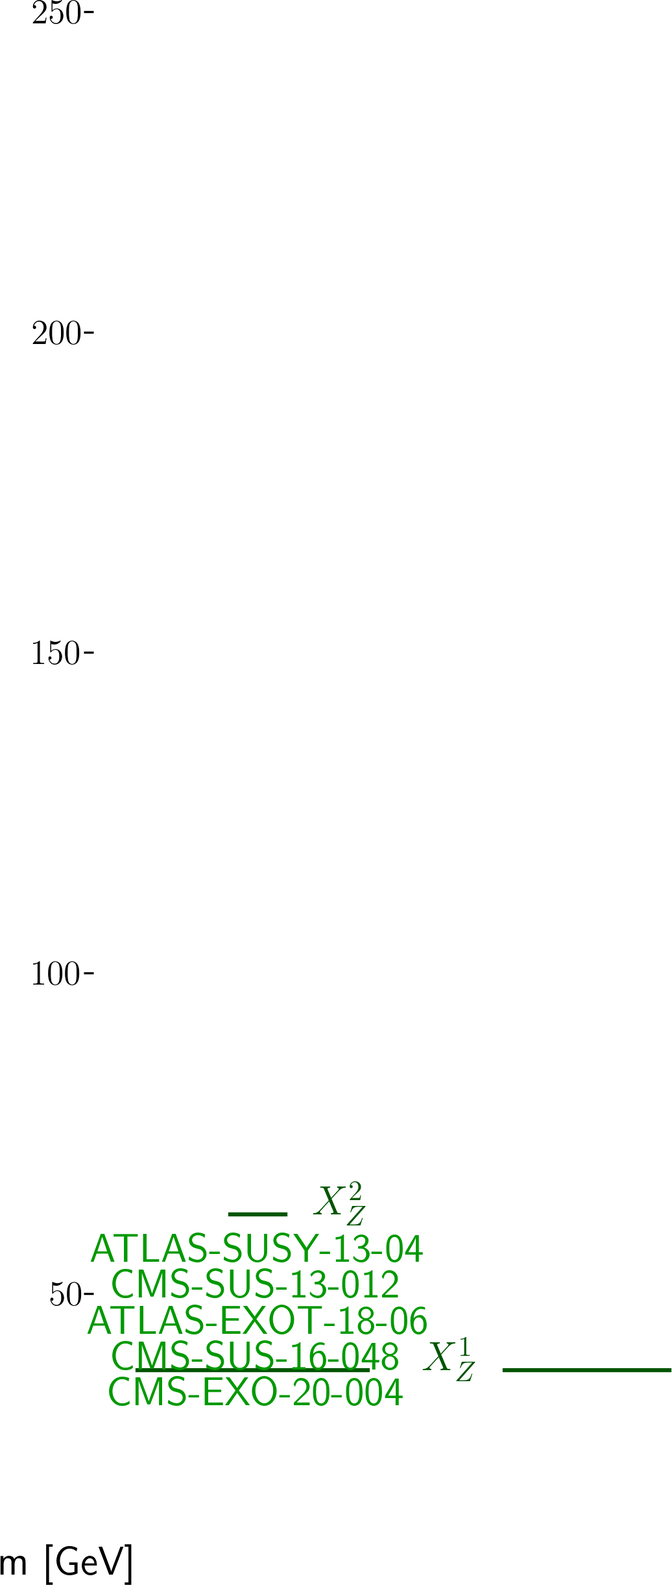
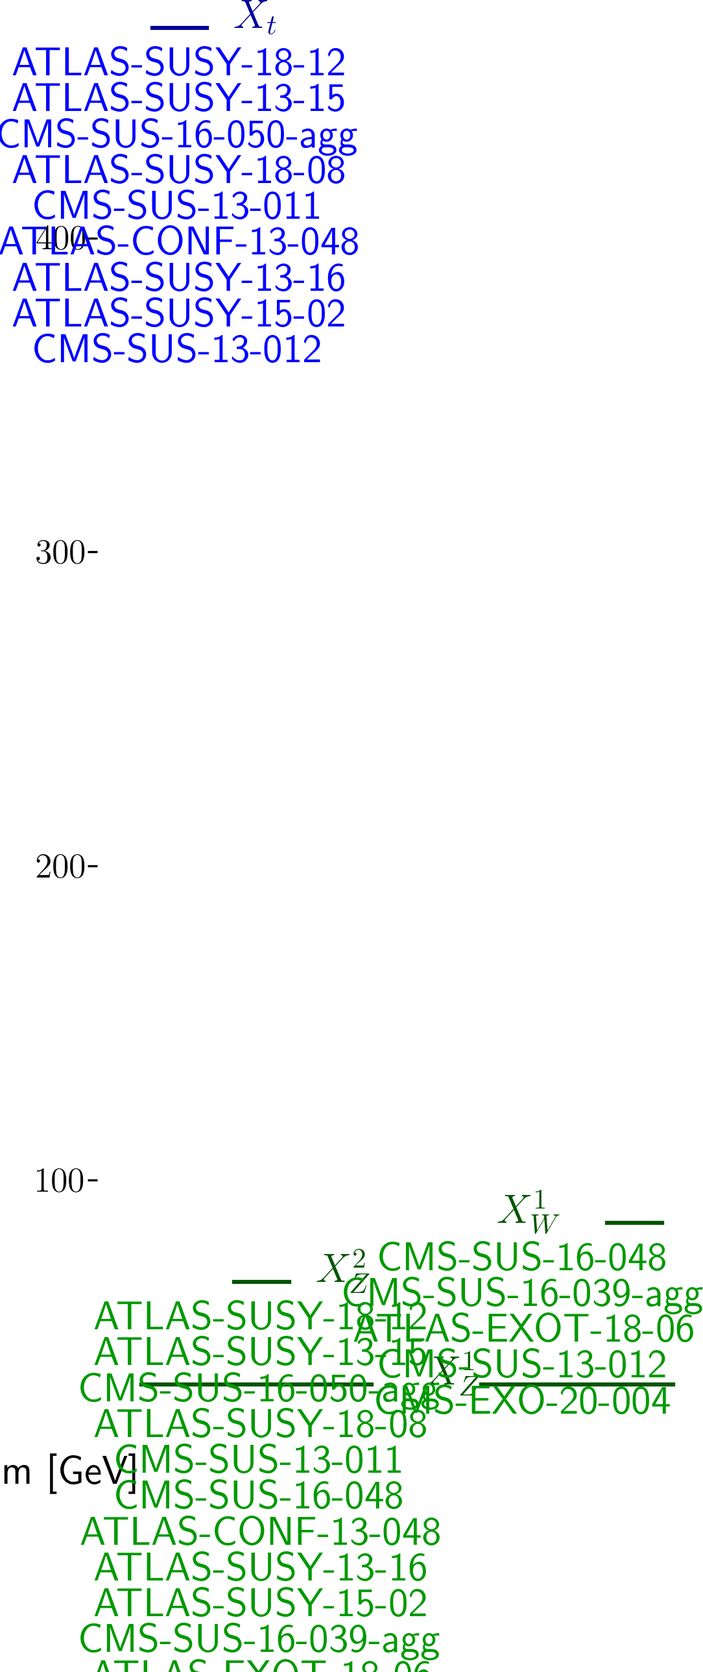
automated update by plotHiscore.py to susy2_310:     K=18.623 TL=27.91 walkerid=0

diff --git a/protomodels/susy2_310/rawnumbers.html b/protomodels/susy2_310/rawnumbers.html
@@ -1,11 +1,83 @@
 <table>
 <tr><th>Analysis Name</th><th>Type</th><th>Dataset</th><th>Topos</th><th>Observed</th><th>Expected</th><th>Approx &sigma;</th><th>Particles</th>
 </tr>
-<tr><td><a href=https://atlas.web.cern.ch/Atlas/GROUPS/PHYSICS/PAPERS/EXOT-2018-06/>ATLAS-EXOT-2018-06</a></td><td>em</td> <td>EM10</td><td>TChiISR, TChiWWISRqq, TChiZISRll, TChiZISRqq</td><td>413</td><td>359.00 +/- 10.00</td><td style="text-align:right">2.4 &sigma;</td><td style="text-align:right">X<sup>1</sup><sub>Z</sub>, X<sup>2</sup><sub>Z</sub></td></tr>
-<tr><td><a href=http://cms-results.web.cern.ch/cms-results/public-results/publications/EXO-20-004/>CMS-EXO-20-004</a></td><td>comb</td> <td>-</td><td>TChiISR, TChiWWISRqq, TChiZISRll, TChiZISRqq</td><td> 2e+02 fb </td><td> 2e+02 fb</td><td style="text-align:right">2.3 &sigma;</td><td style="text-align:right">X<sup>1</sup><sub>Z</sub>, X<sup>2</sup><sub>Z</sub></td></tr>
-<tr><td><a href=https://twiki.cern.ch/twiki/bin/view/CMSPublic/PhysicsResultsSUS13012>CMS-SUS-13-012</a></td><td>em</td> <td>6NJet8_800HT100 ...</td><td>T1bbbb</td><td>35</td><td>28.60 +/- 6.90</td><td style="text-align:right">0.8 &sigma;</td><td style="text-align:right">X<sup>1</sup><sub>Z</sub>, X<sup>2</sup><sub>Z</sub></td></tr>
-<tr><td><a href=http://cms-results.web.cern.ch/cms-results/public-results/publications/SUS-16-048/index.html>CMS-SUS-16-048</a></td><td>comb</td> <td>-</td><td>TChiWZoff</td><td> 1 fb </td><td> 0.9 fb</td><td style="text-align:right">0.8 &sigma;</td><td style="text-align:right">X<sup>1</sup><sub>Z</sub>, X<sup>2</sup><sub>Z</sub></td></tr>
-<tr><td><a href=https://atlas.web.cern.ch/Atlas/GROUPS/PHYSICS/PAPERS/SUSY-2013-04/>ATLAS-SUSY-2013-04</a></td><td>em</td> <td>GtGrid_SR_8ej50 ...</td><td>T1bbbb</td><td>44</td><td>40.00 +/- 10.00</td><td style="text-align:right">0.4 &sigma;</td><td style="text-align:right">X<sup>1</sup><sub>Z</sub>, X<sup>2</sup><sub>Z</sub></td></tr>
+<tr><td><a href=https://atlas.web.cern.ch/Atlas/GROUPS/PHYSICS/PAPERS/EXOT-2018-06/>ATLAS-EXOT-2018-06</a></td><td>em</td> <td>EM10</td><td>TChiISR, TChiWISRll, TChiWWISRqq, TChiZISRll, TChiZISRqq</td><td>413</td><td>359.00 +/- 10.00</td><td style="text-align:right">2.5 &sigma;</td><td style="text-align:right">X<sup>1</sup><sub>W</sub>, X<sup>1</sup><sub>Z</sub>, X<sup>2</sup><sub>Z</sub></td></tr>
+<tr><td><a href=https://atlas.web.cern.ch/Atlas/GROUPS/PHYSICS/PAPERS/SUSY-2015-02/>ATLAS-SUSY-2015-02</a></td><td>em</td> <td>SR1</td><td>T2tt</td><td>12</td><td>5.50 +/- 0.72</td><td style="text-align:right">2.3 &sigma;</td><td style="text-align:right">X<sup>1</sup><sub>Z</sub>, X<sub>t</sub>, X<sup>2</sup><sub>Z</sub></td></tr>
+<tr><td><a href=http://cms-results.web.cern.ch/cms-results/public-results/publications/EXO-20-004/>CMS-EXO-20-004</a></td><td>comb</td> <td>-</td><td>TChiISR, TChiWISRll, TChiWWISRqq, TChiZISRll, TChiZISRqq</td><td> 2e+02 fb </td><td> 2e+02 fb</td><td style="text-align:right">2.3 &sigma;</td><td style="text-align:right">X<sup>1</sup><sub>W</sub>, X<sup>1</sup><sub>Z</sub>, X<sup>2</sup><sub>Z</sub></td></tr>
+<tr><td><a href=https://atlas.web.cern.ch/Atlas/GROUPS/PHYSICS/PAPERS/SUSY-2018-12/>ATLAS-SUSY-2018-12</a></td><td>em</td> <td>SRBTT</td><td>T2tt</td><td>67</td><td>46.00 +/- 7.00</td><td style="text-align:right">2.0 &sigma;</td><td style="text-align:right">X<sup>1</sup><sub>Z</sub>, X<sub>t</sub>, X<sup>2</sup><sub>Z</sub></td></tr>
+<tr><td><a href=http://cms-results.web.cern.ch/cms-results/public-results/publications/SUS-16-039/index.html>CMS-SUS-16-039-agg</a></td><td>comb</td> <td>-</td><td>TChiWZoff</td><td> 1 fb </td><td> 0.6 fb</td><td style="text-align:right">1.8 &sigma;</td><td style="text-align:right">X<sup>1</sup><sub>W</sub>, X<sup>1</sup><sub>Z</sub>, X<sup>2</sup><sub>Z</sub></td></tr>
+<tr><td><a href=http://cms-results.web.cern.ch/cms-results/public-results/publications/SUS-16-048/index.html>CMS-SUS-16-048</a></td><td>comb</td> <td>-</td><td>TChiWZoff</td><td> 2 fb </td><td> 1 fb</td><td style="text-align:right">1.6 &sigma;</td><td style="text-align:right">X<sup>1</sup><sub>W</sub>, X<sup>1</sup><sub>Z</sub>, X<sup>2</sup><sub>Z</sub></td></tr>
+<tr><td><a href=https://atlas.web.cern.ch/Atlas/GROUPS/PHYSICS/PAPERS/SUSY-2018-08/>ATLAS-SUSY-2018-08</a></td><td>em</td> <td>SRSF140</td><td>T2tt</td><td>9</td><td>5.10 +/- 0.90</td><td style="text-align:right">1.5 &sigma;</td><td style="text-align:right">X<sup>1</sup><sub>Z</sub>, X<sub>t</sub>, X<sup>2</sup><sub>Z</sub></td></tr>
+<tr><td><a href=https://atlas.web.cern.ch/Atlas/GROUPS/PHYSICS/PAPERS/SUSY-2013-16/>ATLAS-SUSY-2013-16</a></td><td>em</td> <td>SRA4</td><td>T2tt</td><td>4</td><td>2.40 +/- 0.70</td><td style="text-align:right">0.9 &sigma;</td><td style="text-align:right">X<sup>1</sup><sub>Z</sub>, X<sub>t</sub>, X<sup>2</sup><sub>Z</sub></td></tr>
+<tr><td><a href=https://atlas.web.cern.ch/Atlas/GROUPS/PHYSICS/PAPERS/SUSY-2013-15/>ATLAS-SUSY-2013-15</a></td><td>em</td> <td>tNboost</td><td>T2tt</td><td>5</td><td>3.30 +/- 0.70</td><td style="text-align:right">0.9 &sigma;</td><td style="text-align:right">X<sup>1</sup><sub>Z</sub>, X<sub>t</sub>, X<sup>2</sup><sub>Z</sub></td></tr>
+<tr><td><a href=https://twiki.cern.ch/twiki/bin/view/CMSPublic/PhysicsResultsSUS13012>CMS-SUS-13-012</a></td><td>em</td> <td>6NJet8_800HT100 ...</td><td>T1bbbb, T2tt, T6bbWWoff</td><td>35</td><td>28.60 +/- 6.90</td><td style="text-align:right">0.7 &sigma;</td><td style="text-align:right">X<sup>1</sup><sub>W</sub>, X<sup>1</sup><sub>Z</sub>, X<sub>t</sub>, X<sup>2</sup><sub>Z</sub></td></tr>
+<tr><td><a href=http://cms-results.web.cern.ch/cms-results/public-results/publications/SUS-16-050/index.html>CMS-SUS-16-050-agg</a></td><td>comb</td> <td>-</td><td>T2tt</td><td> 2 fb </td><td> 2 fb</td><td style="text-align:right">0.1 &sigma;</td><td style="text-align:right">X<sup>1</sup><sub>Z</sub>, X<sub>t</sub>, X<sup>2</sup><sub>Z</sub></td></tr>
+<tr><td><a href=https://twiki.cern.ch/twiki/bin/view/CMSPublic/PhysicsResultsSUS13011>CMS-SUS-13-011</a></td><td>em</td> <td>LM150</td><td>T2tt</td><td>227</td><td>251.00 +/- 50.00</td><td style="text-align:right">-0.5 &sigma;</td><td style="text-align:right">X<sup>1</sup><sub>Z</sub>, X<sub>t</sub>, X<sup>2</sup><sub>Z</sub></td></tr>
+<tr><td><a href=https://atlas.web.cern.ch/Atlas/GROUPS/PHYSICS/CONFNOTES/ATLAS-CONF-2013-048/>ATLAS-CONF-2013-048</a></td><td>em</td> <td>SR M90</td><td>T2tt</td><td>260</td><td>300.00 +/- 40.00</td><td style="text-align:right">-0.9 &sigma;</td><td style="text-align:right">X<sup>1</sup><sub>Z</sub>, X<sub>t</sub>, X<sup>2</sup><sub>Z</sub></td></tr>
 </table>
 <table style='color:grey'>
-<tr><th>Not in Best Combo</th><th>Type</th><th>Dataset</th><th>Topos</th><th>Observed</th><th>Expected</th><th>Approx &sigma;</th><th>Particles</th></table>
+<tr><th>Not in Best Combo</th><th>Type</th><th>Dataset</th><th>Topos</th><th>Observed</th><th>Expected</th><th>Approx &sigma;</th><th>Particles</th><tr><td><a href=https://atlas.web.cern.ch/Atlas/GROUPS/PHYSICS/CONFNOTES/ATLAS-CONF-2013-047/>ATLAS-CONF-2013-047</a></td><td>em</td> <td>E Loose</td><td>T2tt</td><td>166</td><td>113.00 +/- 21.00</td><td style="text-align:right">2.2 &sigma;</td><td style="text-align:right">X<sup>1</sup><sub>Z</sub>, X<sub>t</sub>, X<sup>2</sup><sub>Z</sub></td></tr>
+<tr><td><a href=https://atlas.web.cern.ch/Atlas/GROUPS/PHYSICS/PAPERS/SUSY-2016-16/>ATLAS-SUSY-2016-16</a></td><td>em</td> <td>tN_med</td><td>T2tt</td><td>50</td><td>36.30 +/- 6.60</td><td style="text-align:right">1.5 &sigma;</td><td style="text-align:right">X<sup>1</sup><sub>Z</sub>, X<sub>t</sub>, X<sup>2</sup><sub>Z</sub></td></tr>
+<tr><td><a href=https://atlas.web.cern.ch/Atlas/GROUPS/PHYSICS/CONFNOTES/ATLAS-CONF-2013-047/>ATLAS-CONF-2013-047</a></td><td>em</td> <td>A Loose</td><td>T2tt</td><td>5333</td><td>4700.00 +/- 500.00</td><td style="text-align:right">1.3 &sigma;</td><td style="text-align:right">X<sup>1</sup><sub>Z</sub>, X<sub>t</sub>, X<sup>2</sup><sub>Z</sub></td></tr>
+<tr><td><a href=https://atlas.web.cern.ch/Atlas/GROUPS/PHYSICS/PAPERS/SUSY-2013-04/>ATLAS-SUSY-2013-04</a></td><td>em</td> <td>GtGrid_SR_10ij5 ...</td><td>T2tt</td><td>3</td><td>1.37 +/- 0.35</td><td style="text-align:right">1.2 &sigma;</td><td style="text-align:right">X<sup>1</sup><sub>Z</sub>, X<sub>t</sub>, X<sup>2</sup><sub>Z</sub></td></tr>
+<tr><td><a href=https://atlas.web.cern.ch/Atlas/GROUPS/PHYSICS/CONFNOTES/ATLAS-CONF-2013-062/>ATLAS-CONF-2013-062</a></td><td>em</td> <td>incHL3j_m</td><td>T2tt</td><td>5</td><td>2.70 +/- 0.90</td><td style="text-align:right">1.2 &sigma;</td><td style="text-align:right">X<sup>1</sup><sub>Z</sub>, X<sub>t</sub>, X<sup>2</sup><sub>Z</sub></td></tr>
+<tr><td><a href=http://cms-results.web.cern.ch/cms-results/public-results/publications/SUS-16-033/index.html>CMS-SUS-16-033</a></td><td>em</td> <td>SR2_Njet3_Nb0_H ...</td><td>T2tt</td><td>71</td><td>55.20 +/- 11.50</td><td style="text-align:right">1.1 &sigma;</td><td style="text-align:right">X<sup>1</sup><sub>Z</sub>, X<sub>t</sub>, X<sup>2</sup><sub>Z</sub></td></tr>
+<tr><td><a href=https://atlas.web.cern.ch/Atlas/GROUPS/PHYSICS/CONFNOTES/ATLAS-CONF-2013-047/>ATLAS-CONF-2013-047</a></td><td>em</td> <td>E Medium</td><td>T2tt</td><td>41</td><td>30.00 +/- 8.00</td><td style="text-align:right">1.1 &sigma;</td><td style="text-align:right">X<sup>1</sup><sub>Z</sub>, X<sub>t</sub>, X<sup>2</sup><sub>Z</sub></td></tr>
+<tr><td><a href=https://atlas.web.cern.ch/Atlas/GROUPS/PHYSICS/CONFNOTES/ATLAS-CONF-2013-061/>ATLAS-CONF-2013-061</a></td><td>em</td> <td>SR-0l-4j-B</td><td>T2tt</td><td>3</td><td>1.30 +/- 1.00</td><td style="text-align:right">1.0 &sigma;</td><td style="text-align:right">X<sup>1</sup><sub>Z</sub>, X<sub>t</sub>, X<sup>2</sup><sub>Z</sub></td></tr>
+<tr><td><a href=https://atlas.web.cern.ch/Atlas/GROUPS/PHYSICS/PAPERS/SUSY-2013-04/>ATLAS-SUSY-2013-04</a></td><td>em</td> <td>GtGrid_SR_8ij80 ...</td><td>T2tt</td><td>2</td><td>0.90 +/- 0.60</td><td style="text-align:right">0.9 &sigma;</td><td style="text-align:right">X<sup>1</sup><sub>Z</sub>, X<sub>t</sub>, X<sup>2</sup><sub>Z</sub></td></tr>
+<tr><td><a href=https://atlas.web.cern.ch/Atlas/GROUPS/PHYSICS/CONFNOTES/ATLAS-CONF-2013-062/>ATLAS-CONF-2013-062</a></td><td>em</td> <td>SL1b_high</td><td>T2tt</td><td>6</td><td>4.00 +/- 1.10</td><td style="text-align:right">0.9 &sigma;</td><td style="text-align:right">X<sup>1</sup><sub>Z</sub>, X<sub>t</sub>, X<sup>2</sup><sub>Z</sub></td></tr>
+<tr><td><a href=https://atlas.web.cern.ch/Atlas/GROUPS/PHYSICS/PAPERS/SUSY-2013-04/>ATLAS-SUSY-2013-04</a></td><td>em</td> <td>GtGrid_SR_9ej50 ...</td><td>T2tt</td><td>5</td><td>3.30 +/- 0.70</td><td style="text-align:right">0.9 &sigma;</td><td style="text-align:right">X<sup>1</sup><sub>Z</sub>, X<sub>t</sub>, X<sup>2</sup><sub>Z</sub></td></tr>
+<tr><td><a href=https://atlas.web.cern.ch/Atlas/GROUPS/PHYSICS/CONFNOTES/ATLAS-CONF-2013-047/>ATLAS-CONF-2013-047</a></td><td>em</td> <td>E Tight</td><td>T2tt</td><td>5</td><td>2.90 +/- 1.80</td><td style="text-align:right">0.8 &sigma;</td><td style="text-align:right">X<sup>1</sup><sub>Z</sub>, X<sub>t</sub>, X<sup>2</sup><sub>Z</sub></td></tr>
+<tr><td><a href=https://twiki.cern.ch/twiki/bin/view/CMSPublic/PhysicsResultsSUS13015>CMS-PAS-SUS-13-015</a></td><td>em</td> <td>pTmiss350_Nb2</td><td>T2tt</td><td>15</td><td>8.60 +/- 7.10</td><td style="text-align:right">0.8 &sigma;</td><td style="text-align:right">X<sup>1</sup><sub>Z</sub>, X<sub>t</sub>, X<sup>2</sup><sub>Z</sub></td></tr>
+<tr><td><a href=https://atlas.web.cern.ch/Atlas/GROUPS/PHYSICS/CONFNOTES/ATLAS-CONF-2013-054/>ATLAS-CONF-2013-054</a></td><td>em</td> <td>8j50 flavor 0 b ...</td><td>T2tt</td><td>40</td><td>35.00 +/- 4.00</td><td style="text-align:right">0.7 &sigma;</td><td style="text-align:right">X<sup>1</sup><sub>Z</sub>, X<sub>t</sub>, X<sup>2</sup><sub>Z</sub></td></tr>
+<tr><td><a href=https://atlas.web.cern.ch/Atlas/GROUPS/PHYSICS/PAPERS/SUSY-2013-04/>ATLAS-SUSY-2013-04</a></td><td>em</td> <td>GtGrid_SR_8ej50 ...</td><td>T2tt</td><td>40</td><td>35.00 +/- 4.00</td><td style="text-align:right">0.7 &sigma;</td><td style="text-align:right">X<sup>1</sup><sub>Z</sub>, X<sub>t</sub>, X<sup>2</sup><sub>Z</sub></td></tr>
+<tr><td><a href=https://atlas.web.cern.ch/Atlas/GROUPS/PHYSICS/CONFNOTES/ATLAS-CONF-2013-037/>ATLAS-CONF-2013-037</a></td><td>em</td> <td>SRtN3</td><td>T2tt</td><td>7</td><td>5.00 +/- 2.00</td><td style="text-align:right">0.7 &sigma;</td><td style="text-align:right">X<sup>1</sup><sub>Z</sub>, X<sub>t</sub>, X<sup>2</sup><sub>Z</sub></td></tr>
+<tr><td><a href=https://atlas.web.cern.ch/Atlas/GROUPS/PHYSICS/CONFNOTES/ATLAS-CONF-2013-062/>ATLAS-CONF-2013-062</a></td><td>em</td> <td>SL1b_low</td><td>T2tt</td><td>8</td><td>6.10 +/- 1.40</td><td style="text-align:right">0.7 &sigma;</td><td style="text-align:right">X<sup>1</sup><sub>Z</sub>, X<sub>t</sub>, X<sup>2</sup><sub>Z</sub></td></tr>
+<tr><td><a href=https://atlas.web.cern.ch/Atlas/GROUPS/PHYSICS/PAPERS/SUSY-2013-04/>ATLAS-SUSY-2013-04</a></td><td>em</td> <td>GtGrid_SR_9ej50 ...</td><td>T2tt</td><td>8</td><td>6.10 +/- 1.70</td><td style="text-align:right">0.7 &sigma;</td><td style="text-align:right">X<sup>1</sup><sub>Z</sub>, X<sub>t</sub>, X<sup>2</sup><sub>Z</sub></td></tr>
+<tr><td><a href=http://cms-results.web.cern.ch/cms-results/public-results/publications/SUS-16-033/index.html>CMS-SUS-16-033</a></td><td>em</td> <td>SR6_Njet2_Nb2_H ...</td><td>T2tt</td><td>216</td><td>196.00 +/- 28.00</td><td style="text-align:right">0.6 &sigma;</td><td style="text-align:right">X<sup>1</sup><sub>Z</sub>, X<sub>t</sub>, X<sup>2</sup><sub>Z</sub></td></tr>
+<tr><td><a href=https://atlas.web.cern.ch/Atlas/GROUPS/PHYSICS/CONFNOTES/ATLAS-CONF-2013-047/>ATLAS-CONF-2013-047</a></td><td>em</td> <td>A Medium</td><td>T2tt</td><td>135</td><td>122.00 +/- 18.00</td><td style="text-align:right">0.6 &sigma;</td><td style="text-align:right">X<sup>1</sup><sub>Z</sub>, X<sub>t</sub>, X<sup>2</sup><sub>Z</sub></td></tr>
+<tr><td><a href=http://cms-results.web.cern.ch/cms-results/public-results/publications/SUS-16-033/index.html>CMS-SUS-16-033</a></td><td>em</td> <td>SR1_Njet2_Nb0_H ...</td><td>T2tt</td><td>7838</td><td>7584.00 +/- 433.00</td><td style="text-align:right">0.6 &sigma;</td><td style="text-align:right">X<sup>1</sup><sub>Z</sub>, X<sub>t</sub>, X<sup>2</sup><sub>Z</sub></td></tr>
+<tr><td><a href=https://atlas.web.cern.ch/Atlas/GROUPS/PHYSICS/CONFNOTES/ATLAS-CONF-2013-062/>ATLAS-CONF-2013-062</a></td><td>em</td> <td>SL3j</td><td>T2tt</td><td>7</td><td>5.60 +/- 1.60</td><td style="text-align:right">0.6 &sigma;</td><td style="text-align:right">X<sup>1</sup><sub>Z</sub>, X<sub>t</sub>, X<sup>2</sup><sub>Z</sub></td></tr>
+<tr><td><a href=http://cms-results.web.cern.ch/cms-results/public-results/publications/SUS-16-033/index.html>CMS-SUS-16-033</a></td><td>em</td> <td>SR12_Njet5_Nb1_ ...</td><td>T2tt</td><td>48</td><td>42.20 +/- 9.70</td><td style="text-align:right">0.5 &sigma;</td><td style="text-align:right">X<sup>1</sup><sub>Z</sub>, X<sub>t</sub>, X<sup>2</sup><sub>Z</sub></td></tr>
+<tr><td><a href=https://atlas.web.cern.ch/Atlas/GROUPS/PHYSICS/CONFNOTES/ATLAS-CONF-2013-047/>ATLAS-CONF-2013-047</a></td><td>em</td> <td>D</td><td>T2tt</td><td>18</td><td>15.00 +/- 5.00</td><td style="text-align:right">0.5 &sigma;</td><td style="text-align:right">X<sup>1</sup><sub>Z</sub>, X<sub>t</sub>, X<sup>2</sup><sub>Z</sub></td></tr>
+<tr><td><a href=https://atlas.web.cern.ch/Atlas/GROUPS/PHYSICS/CONFNOTES/ATLAS-CONF-2013-053/>ATLAS-CONF-2013-053</a></td><td>em</td> <td>SRA mCT150</td><td>T2tt</td><td>102</td><td>94.00 +/- 13.00</td><td style="text-align:right">0.5 &sigma;</td><td style="text-align:right">X<sup>1</sup><sub>Z</sub>, X<sub>t</sub>, X<sup>2</sup><sub>Z</sub></td></tr>
+<tr><td><a href=http://cms-results.web.cern.ch/cms-results/public-results/publications/SUS-16-033/index.html>CMS-SUS-16-033</a></td><td>em</td> <td>SR7_Njet3_Nb1_H ...</td><td>T2tt</td><td>123</td><td>113.00 +/- 18.00</td><td style="text-align:right">0.5 &sigma;</td><td style="text-align:right">X<sup>1</sup><sub>Z</sub>, X<sub>t</sub>, X<sup>2</sup><sub>Z</sub></td></tr>
+<tr><td><a href=https://atlas.web.cern.ch/Atlas/GROUPS/PHYSICS/CONFNOTES/ATLAS-CONF-2013-047/>ATLAS-CONF-2013-047</a></td><td>em</td> <td>C Medium</td><td>T2tt</td><td>228</td><td>210.00 +/- 40.00</td><td style="text-align:right">0.4 &sigma;</td><td style="text-align:right">X<sup>1</sup><sub>Z</sub>, X<sub>t</sub>, X<sup>2</sup><sub>Z</sub></td></tr>
+<tr><td><a href=https://twiki.cern.ch/twiki/bin/view/CMSPublic/PhysicsResultsSUS13015>CMS-PAS-SUS-13-015</a></td><td>em</td> <td>pTmiss350_Nb1</td><td>T2tt</td><td>45</td><td>40.90 +/- 9.60</td><td style="text-align:right">0.4 &sigma;</td><td style="text-align:right">X<sup>1</sup><sub>Z</sub>, X<sub>t</sub>, X<sup>2</sup><sub>Z</sub></td></tr>
+<tr><td><a href=http://cms-results.web.cern.ch/cms-results/public-results/publications/SUS-16-033/index.html>CMS-SUS-16-033</a></td><td>em</td> <td>SR9_NJet5_Nb2_H ...</td><td>T2tt</td><td>6</td><td>4.40 +/- 3.40</td><td style="text-align:right">0.4 &sigma;</td><td style="text-align:right">X<sup>1</sup><sub>Z</sub>, X<sub>t</sub>, X<sup>2</sup><sub>Z</sub></td></tr>
+<tr><td><a href=https://atlas.web.cern.ch/Atlas/GROUPS/PHYSICS/PAPERS/SUSY-2013-04/>ATLAS-SUSY-2013-04</a></td><td>em</td> <td>GtGrid_SR_8ej50 ...</td><td>T1bbbb, T2tt</td><td>44</td><td>40.00 +/- 10.00</td><td style="text-align:right">0.4 &sigma;</td><td style="text-align:right">X<sub>t</sub>, X<sup>1</sup><sub>Z</sub>, X<sup>2</sup><sub>Z</sub></td></tr>
+<tr><td><a href=https://atlas.web.cern.ch/Atlas/GROUPS/PHYSICS/CONFNOTES/ATLAS-CONF-2013-054/>ATLAS-CONF-2013-054</a></td><td>em</td> <td>8j50 flavor 1 b ...</td><td>T2tt</td><td>44</td><td>40.00 +/- 10.00</td><td style="text-align:right">0.4 &sigma;</td><td style="text-align:right">X<sup>1</sup><sub>Z</sub>, X<sub>t</sub>, X<sup>2</sup><sub>Z</sub></td></tr>
+<tr><td><a href=https://atlas.web.cern.ch/Atlas/GROUPS/PHYSICS/PAPERS/SUSY-2013-04/>ATLAS-SUSY-2013-04</a></td><td>em</td> <td>GtGrid_SR_7ej80 ...</td><td>T2tt</td><td>12</td><td>11.00 +/- 2.20</td><td style="text-align:right">0.3 &sigma;</td><td style="text-align:right">X<sup>1</sup><sub>Z</sub>, X<sub>t</sub>, X<sup>2</sup><sub>Z</sub></td></tr>
+<tr><td><a href=http://cms-results.web.cern.ch/cms-results/public-results/publications/SUS-16-033/index.html>CMS-SUS-16-033</a></td><td>em</td> <td>SR4_Njet5_Nb0_H ...</td><td>T2tt</td><td>25</td><td>23.00 +/- 6.50</td><td style="text-align:right">0.3 &sigma;</td><td style="text-align:right">X<sup>1</sup><sub>Z</sub>, X<sub>t</sub>, X<sup>2</sup><sub>Z</sub></td></tr>
+<tr><td><a href=https://atlas.web.cern.ch/Atlas/GROUPS/PHYSICS/CONFNOTES/ATLAS-CONF-2013-037/>ATLAS-CONF-2013-037</a></td><td>em</td> <td>SRtN2</td><td>T2tt</td><td>14</td><td>13.00 +/- 3.00</td><td style="text-align:right">0.3 &sigma;</td><td style="text-align:right">X<sup>1</sup><sub>Z</sub>, X<sub>t</sub>, X<sup>2</sup><sub>Z</sub></td></tr>
+<tr><td><a href=http://cms-results.web.cern.ch/cms-results/public-results/publications/SUS-16-033/index.html>CMS-SUS-16-033</a></td><td>em</td> <td>SR3_Njet5_Nb0_H ...</td><td>T2tt</td><td>819</td><td>806.00 +/- 57.00</td><td style="text-align:right">0.2 &sigma;</td><td style="text-align:right">X<sup>1</sup><sub>Z</sub>, X<sub>t</sub>, X<sup>2</sup><sub>Z</sub></td></tr>
+<tr><td><a href=https://atlas.web.cern.ch/Atlas/GROUPS/PHYSICS/CONFNOTES/ATLAS-CONF-2013-062/>ATLAS-CONF-2013-062</a></td><td>em</td> <td>incHL3j_e</td><td>T2tt</td><td>4</td><td>3.90 +/- 1.00</td><td style="text-align:right">0.1 &sigma;</td><td style="text-align:right">X<sup>1</sup><sub>Z</sub>, X<sub>t</sub>, X<sup>2</sup><sub>Z</sub></td></tr>
+<tr><td><a href=https://atlas.web.cern.ch/Atlas/GROUPS/PHYSICS/CONFNOTES/ATLAS-CONF-2013-062/>ATLAS-CONF-2013-062</a></td><td>em</td> <td>incHL6j_e</td><td>T2tt</td><td>2</td><td>2.00 +/- 0.70</td><td style="text-align:right">0.1 &sigma;</td><td style="text-align:right">X<sup>1</sup><sub>Z</sub>, X<sub>t</sub>, X<sup>2</sup><sub>Z</sub></td></tr>
+<tr><td><a href=https://atlas.web.cern.ch/Atlas/GROUPS/PHYSICS/CONFNOTES/ATLAS-CONF-2013-053/>ATLAS-CONF-2013-053</a></td><td>em</td> <td>SRB</td><td>T2tt</td><td>65</td><td>64.00 +/- 10.00</td><td style="text-align:right">0.1 &sigma;</td><td style="text-align:right">X<sup>1</sup><sub>Z</sub>, X<sub>t</sub>, X<sup>2</sup><sub>Z</sub></td></tr>
+<tr><td><a href=https://atlas.web.cern.ch/Atlas/GROUPS/PHYSICS/CONFNOTES/ATLAS-CONF-2013-093/>ATLAS-CONF-2013-093</a></td><td>em</td> <td>SRBh</td><td>T2tt</td><td>2</td><td>2.10 +/- 0.70</td><td style="text-align:right">0.1 &sigma;</td><td style="text-align:right">X<sup>1</sup><sub>Z</sub>, X<sub>t</sub>, X<sup>2</sup><sub>Z</sub></td></tr>
+<tr><td><a href=https://atlas.web.cern.ch/Atlas/GROUPS/PHYSICS/PAPERS/SUSY-2013-04/>ATLAS-SUSY-2013-04</a></td><td>em</td> <td>GtGrid_SR_7ej80 ...</td><td>T2tt</td><td>17</td><td>17.00 +/- 6.00</td><td style="text-align:right">0.1 &sigma;</td><td style="text-align:right">X<sup>1</sup><sub>Z</sub>, X<sub>t</sub>, X<sup>2</sup><sub>Z</sub></td></tr>
+<tr><td><a href=https://twiki.cern.ch/twiki/bin/view/CMSPublic/PhysicsResultsSUS13015>CMS-PAS-SUS-13-015</a></td><td>em</td> <td>pTmiss200_Nb1</td><td>T2tt</td><td>254</td><td>254.30 +/- 35.00</td><td style="text-align:right">0.0 &sigma;</td><td style="text-align:right">X<sup>1</sup><sub>Z</sub>, X<sub>t</sub>, X<sup>2</sup><sub>Z</sub></td></tr>
+<tr><td><a href=https://atlas.web.cern.ch/Atlas/GROUPS/PHYSICS/CONFNOTES/ATLAS-CONF-2013-061/>ATLAS-CONF-2013-061</a></td><td>em</td> <td>SR-0l-7j-A</td><td>T2tt</td><td>22</td><td>22.50 +/- 6.90</td><td style="text-align:right">-0.0 &sigma;</td><td style="text-align:right">X<sup>1</sup><sub>Z</sub>, X<sub>t</sub>, X<sup>2</sup><sub>Z</sub></td></tr>
+<tr><td><a href=https://atlas.web.cern.ch/Atlas/GROUPS/PHYSICS/PAPERS/SUSY-2013-04/>ATLAS-SUSY-2013-04</a></td><td>em</td> <td>GtGrid_SR_8ij80 ...</td><td>T2tt</td><td>3</td><td>3.30 +/- 2.20</td><td style="text-align:right">-0.1 &sigma;</td><td style="text-align:right">X<sup>1</sup><sub>Z</sub>, X<sub>t</sub>, X<sup>2</sup><sub>Z</sub></td></tr>
+<tr><td><a href=https://atlas.web.cern.ch/Atlas/GROUPS/PHYSICS/CONFNOTES/ATLAS-CONF-2013-037/>ATLAS-CONF-2013-037</a></td><td>em</td> <td>SRbC2</td><td>T2tt</td><td>25</td><td>25.00 +/- 18.00</td><td style="text-align:right">-0.1 &sigma;</td><td style="text-align:right">X<sup>1</sup><sub>Z</sub>, X<sub>t</sub>, X<sup>2</sup><sub>Z</sub></td></tr>
+<tr><td><a href=https://atlas.web.cern.ch/Atlas/GROUPS/PHYSICS/PAPERS/SUSY-2013-04/>ATLAS-SUSY-2013-04</a></td><td>em</td> <td>GtGrid_SR_9ej50 ...</td><td>T2tt</td><td>7</td><td>8.00 +/- 2.70</td><td style="text-align:right">-0.2 &sigma;</td><td style="text-align:right">X<sup>1</sup><sub>Z</sub>, X<sub>t</sub>, X<sup>2</sup><sub>Z</sub></td></tr>
+<tr><td><a href=https://atlas.web.cern.ch/Atlas/GROUPS/PHYSICS/CONFNOTES/ATLAS-CONF-2013-037/>ATLAS-CONF-2013-037</a></td><td>em</td> <td>SRbC3</td><td>T2tt</td><td>6</td><td>7.00 +/- 3.00</td><td style="text-align:right">-0.2 &sigma;</td><td style="text-align:right">X<sup>1</sup><sub>Z</sub>, X<sub>t</sub>, X<sup>2</sup><sub>Z</sub></td></tr>
+<tr><td><a href=https://atlas.web.cern.ch/Atlas/GROUPS/PHYSICS/CONFNOTES/ATLAS-CONF-2013-061/>ATLAS-CONF-2013-061</a></td><td>em</td> <td>SR-0l-7j-B</td><td>T2tt</td><td>3</td><td>3.60 +/- 2.50</td><td style="text-align:right">-0.2 &sigma;</td><td style="text-align:right">X<sup>1</sup><sub>Z</sub>, X<sub>t</sub>, X<sup>2</sup><sub>Z</sub></td></tr>
+<tr><td><a href=https://atlas.web.cern.ch/Atlas/GROUPS/PHYSICS/PAPERS/SUSY-2013-04/>ATLAS-SUSY-2013-04</a></td><td>em</td> <td>GtGrid_SR_8ij80 ...</td><td>T2tt</td><td>1</td><td>1.50 +/- 0.90</td><td style="text-align:right">-0.2 &sigma;</td><td style="text-align:right">X<sup>1</sup><sub>Z</sub>, X<sub>t</sub>, X<sup>2</sup><sub>Z</sub></td></tr>
+<tr><td><a href=https://twiki.cern.ch/twiki/bin/view/CMSPublic/PhysicsResultsSUS13015>CMS-PAS-SUS-13-015</a></td><td>em</td> <td>pTmiss200_Nb2</td><td>T2tt</td><td>83</td><td>88.40 +/- 19.80</td><td style="text-align:right">-0.2 &sigma;</td><td style="text-align:right">X<sup>1</sup><sub>Z</sub>, X<sub>t</sub>, X<sup>2</sup><sub>Z</sub></td></tr>
+<tr><td><a href=http://cms-results.web.cern.ch/cms-results/public-results/publications/SUS-16-033/index.html>CMS-SUS-16-033</a></td><td>em</td> <td>SR8_Njet5_Nb3_H ...</td><td>T2tt</td><td>17</td><td>19.50 +/- 8.40</td><td style="text-align:right">-0.2 &sigma;</td><td style="text-align:right">X<sup>1</sup><sub>Z</sub>, X<sub>t</sub>, X<sup>2</sup><sub>Z</sub></td></tr>
+<tr><td><a href=https://atlas.web.cern.ch/Atlas/GROUPS/PHYSICS/CONFNOTES/ATLAS-CONF-2013-054/>ATLAS-CONF-2013-054</a></td><td>em</td> <td>8j50 MJ 340</td><td>T2tt</td><td>69</td><td>75.00 +/- 19.00</td><td style="text-align:right">-0.3 &sigma;</td><td style="text-align:right">X<sup>1</sup><sub>Z</sub>, X<sub>t</sub>, X<sup>2</sup><sub>Z</sub></td></tr>
+<tr><td><a href=https://atlas.web.cern.ch/Atlas/GROUPS/PHYSICS/CONFNOTES/ATLAS-CONF-2013-037/>ATLAS-CONF-2013-037</a></td><td>em</td> <td>SRbC1</td><td>T2tt</td><td>456</td><td>482.00 +/- 76.00</td><td style="text-align:right">-0.3 &sigma;</td><td style="text-align:right">X<sup>1</sup><sub>Z</sub>, X<sub>t</sub>, X<sup>2</sup><sub>Z</sub></td></tr>
+<tr><td><a href=https://atlas.web.cern.ch/Atlas/GROUPS/PHYSICS/CONFNOTES/ATLAS-CONF-2013-061/>ATLAS-CONF-2013-061</a></td><td>em</td> <td>SR-0l-4j-A</td><td>T2tt</td><td>2</td><td>3.00 +/- 1.30</td><td style="text-align:right">-0.4 &sigma;</td><td style="text-align:right">X<sup>1</sup><sub>Z</sub>, X<sub>t</sub></td></tr>
+<tr><td><a href=https://atlas.web.cern.ch/Atlas/GROUPS/PHYSICS/CONFNOTES/ATLAS-CONF-2013-047/>ATLAS-CONF-2013-047</a></td><td>em</td> <td>B Medium</td><td>T2tt</td><td>29</td><td>33.00 +/- 7.00</td><td style="text-align:right">-0.4 &sigma;</td><td style="text-align:right">X<sup>1</sup><sub>Z</sub>, X<sub>t</sub>, X<sup>2</sup><sub>Z</sub></td></tr>
+<tr><td><a href=https://atlas.web.cern.ch/Atlas/GROUPS/PHYSICS/CONFNOTES/ATLAS-CONF-2013-024/>ATLAS-CONF-2013-024</a></td><td>em</td> <td>SR1: MET > 200</td><td>T2tt</td><td>15</td><td>17.50 +/- 3.20</td><td style="text-align:right">-0.4 &sigma;</td><td style="text-align:right">X<sup>1</sup><sub>Z</sub>, X<sub>t</sub>, X<sup>2</sup><sub>Z</sub></td></tr>
+<tr><td><a href=https://atlas.web.cern.ch/Atlas/GROUPS/PHYSICS/PAPERS/SUSY-2013-04/>ATLAS-SUSY-2013-04</a></td><td>em</td> <td>GtGrid_SR_8ej50 ...</td><td>T2tt</td><td>44</td><td>50.00 +/- 10.00</td><td style="text-align:right">-0.5 &sigma;</td><td style="text-align:right">X<sup>1</sup><sub>Z</sub>, X<sub>t</sub>, X<sup>2</sup><sub>Z</sub></td></tr>
+<tr><td><a href=https://atlas.web.cern.ch/Atlas/GROUPS/PHYSICS/CONFNOTES/ATLAS-CONF-2013-054/>ATLAS-CONF-2013-054</a></td><td>em</td> <td>8j50 flavor >=2 ...</td><td>T2tt</td><td>44</td><td>50.00 +/- 10.00</td><td style="text-align:right">-0.5 &sigma;</td><td style="text-align:right">X<sup>1</sup><sub>Z</sub>, X<sub>t</sub>, X<sup>2</sup><sub>Z</sub></td></tr>
+<tr><td><a href=https://atlas.web.cern.ch/Atlas/GROUPS/PHYSICS/CONFNOTES/ATLAS-CONF-2013-024/>ATLAS-CONF-2013-024</a></td><td>em</td> <td>SR3: MET > 350</td><td>T2tt</td><td>1</td><td>2.70 +/- 1.20</td><td style="text-align:right">-0.8 &sigma;</td><td style="text-align:right">X<sup>1</sup><sub>Z</sub>, X<sub>t</sub>, X<sup>2</sup><sub>Z</sub></td></tr>
+<tr><td><a href=http://cms-results.web.cern.ch/cms-results/public-results/publications/SUS-16-033/index.html>CMS-SUS-16-033</a></td><td>em</td> <td>SR11_Njet7_Nb1_ ...</td><td>T2tt</td><td>890</td><td>969.00 +/- 80.00</td><td style="text-align:right">-0.9 &sigma;</td><td style="text-align:right">X<sup>1</sup><sub>Z</sub>, X<sub>t</sub>, X<sup>2</sup><sub>Z</sub></td></tr>
+<tr><td><a href=https://atlas.web.cern.ch/Atlas/GROUPS/PHYSICS/CONFNOTES/ATLAS-CONF-2013-024/>ATLAS-CONF-2013-024</a></td><td>em</td> <td>SR2: MET > 300</td><td>T2tt</td><td>2</td><td>4.70 +/- 1.50</td><td style="text-align:right">-1.0 &sigma;</td><td style="text-align:right">X<sup>1</sup><sub>Z</sub>, X<sub>t</sub>, X<sup>2</sup><sub>Z</sub></td></tr>
+<tr><td><a href=https://atlas.web.cern.ch/Atlas/GROUPS/PHYSICS/CONFNOTES/ATLAS-CONF-2013-062/>ATLAS-CONF-2013-062</a></td><td>em</td> <td>SL5j</td><td>T2tt</td><td>9</td><td>14.80 +/- 3.70</td><td style="text-align:right">-1.1 &sigma;</td><td style="text-align:right">X<sup>1</sup><sub>Z</sub>, X<sub>t</sub>, X<sup>2</sup><sub>Z</sub></td></tr>
+<tr><td><a href=https://atlas.web.cern.ch/Atlas/GROUPS/PHYSICS/PAPERS/SUSY-2013-04/>ATLAS-SUSY-2013-04</a></td><td>em</td> <td>GtGrid_SR_7ej80 ...</td><td>T2tt</td><td>13</td><td>25.00 +/- 10.00</td><td style="text-align:right">-1.1 &sigma;</td><td style="text-align:right">X<sup>1</sup><sub>Z</sub>, X<sub>t</sub>, X<sup>2</sup><sub>Z</sub></td></tr>
+<tr><td><a href=https://atlas.web.cern.ch/Atlas/GROUPS/PHYSICS/CONFNOTES/ATLAS-CONF-2013-062/>ATLAS-CONF-2013-062</a></td><td>em</td> <td>incHL6j_m</td><td>T2tt</td><td>0</td><td>1.70 +/- 0.60</td><td style="text-align:right">-1.2 &sigma;</td><td style="text-align:right">X<sup>1</sup><sub>Z</sub>, X<sub>t</sub>, X<sup>2</sup><sub>Z</sub></td></tr>
+<tr><td><a href=http://cms-results.web.cern.ch/cms-results/public-results/publications/SUS-19-006/index.html>CMS-SUS-19-006-agg</a></td><td>comb</td> <td>-</td><td>T2tt</td><td> 2 fb </td><td> 2 fb</td><td style="text-align:right">-1.3 &sigma;</td><td style="text-align:right">X<sup>1</sup><sub>Z</sub>, X<sub>t</sub>, X<sup>2</sup><sub>Z</sub></td></tr>
+</table>

diff --git a/protomodels/susy2_310/index.html b/protomodels/susy2_310/index.html
@@ -1,24 +1,24 @@
 <html>
 <body>
 <center>
-<table><td><h1>Current best protomodel: <i>K</i>=10.36, <i>TL</i>=13.74</h1><td><img height=60px src=https://smodels.github.io//protomodels/logos/protomodel_lego.png></table>
+<table><td><h1>Current best protomodel: <i>K</i>=18.62, <i>TL</i>=27.91</h1><td><img height=60px src=https://smodels.github.io//protomodels/logos/protomodel_lego.png></table>
 </center>
-<b><a href=./hiscore.slha>ProtoModel</a> <a href=./pmodel.dict>(dict)</a> produced with <a href=https://smodels.github.io//docs/Validation310fast>database v3.1.0.fast</a>, combination strategy <a href=./matrix.png>aggressive</a> in walker 0 step 146.</b> <br>
+<b><a href=./hiscore.slha>ProtoModel</a> <a href=./pmodel.dict>(dict)</a> produced with <a href=https://smodels.github.io//docs/Validation310fast>database v3.1.0.fast</a>, combination strategy <a href=./matrix.png>aggressive</a> in walker 0 step 0.</b> <br>
 <table width=80%>
 <tr><td>
-<br><b>Critics:</b> passed both critics<br>
-<br><b>LLHD Critic:</b> ATLAS-EXOT-2018-06:EM5, CMS-EXO-20-004:combined, CMS-SUS-16-048:combined:: <span style='color: darkgreen;'>robs=0.99, rexp=2.1</span><br>
-<br><b>5 predictions available. Highest r values are:</b><br><ul>
-<li><a href=https://atlas.web.cern.ch/Atlas/GROUPS/PHYSICS/PAPERS/EXOT-2018-06/>ATLAS-EXOT-2018-06</a>:EM5:TChiZISRqq,TChiISR,TChiZISRll,TChiWWISRqq r=1.32, r<sub>exp</sub>=1.37<br>
-<li><a href=http://cms-results.web.cern.ch/cms-results/public-results/publications/EXO-20-004/>CMS-EXO-20-004</a>:SR_2016_7:TChiZISRqq,TChiISR,TChiZISRll,TChiWWISRqq r=0.37, r<sub>exp</sub>=0.33<br>
-<li><a href=http://cms-results.web.cern.ch/cms-results/public-results/publications/SUS-16-048/index.html>CMS-SUS-16-048</a>:Ewkino_highMET_M_4to9:TChiWZoff r=0.32, r<sub>exp</sub>=0.38<br>
-<li><a href=https://atlas.web.cern.ch/Atlas/GROUPS/PHYSICS/PAPERS/SUSY-2013-04/>ATLAS-SUSY-2013-04</a>:GtGrid_SR_8ej50_1bjet:T1bbbb r=0.00, r<sub>exp</sub>=0.00<br>
+<br><b>Critics:</b> failed llhd-based critic<br>
+<br><b>LLHD Critic:</b> ATLAS-EXOT-2018-06:EM5, CMS-SUS-16-048:combined, CMS-SUS-16-039-agg:combined, CMS-EXO-20-004:combined, ATLAS-SUSY-2018-12:SRBTT, ATLAS-SUSY-2018-08:SRDF220, ATLAS-SUSY-2016-16:tN_med, CMS-SUS-16-050-agg:combined, ATLAS-SUSY-2013-15:tNmed:: <span style='color: darkred;'>robs=1.02, rexp=3.27</span><br>
+<br><b>51 predictions available. Highest r values are:</b><br><ul>
+<li><a href=https://atlas.web.cern.ch/Atlas/GROUPS/PHYSICS/PAPERS/EXOT-2018-06/>ATLAS-EXOT-2018-06</a>:EM5:TChiZISRqq,TChiWWISRqq,TChiWISRll,TChiZISRll,TChiISR r=1.30, r<sub>exp</sub>=1.35<br>
+<li><a href=http://cms-results.web.cern.ch/cms-results/public-results/publications/SUS-20-002/index.html>CMS-SUS-20-002</a>:ul:T2tt r=1.29, r<sub>exp</sub>=1.23<br>
+<li><a href=http://cms-results.web.cern.ch/cms-results/public-results/publications/SUS-19-010/index.html>CMS-SUS-19-010</a>:ul:T2tt r=0.90, r<sub>exp</sub>=0.85<br>
+<li><a href=http://cms-results.web.cern.ch/cms-results/public-results/publications/SUS-19-009/index.html>CMS-SUS-19-009</a>:ul:T2tt r=0.77, r<sub>exp</sub>=0.81<br>
 </ul>
-<td><img width=600px src=./texdoc.png?1756275762>
-<br><span style='font-size: smaller; color: darkred;'>Last updated: Wed Aug 27 08:22:42 2025</span>
+<td><img width=600px src=./texdoc.png?1756293640>
+<br><span style='font-size: smaller; color: darkred;'>Last updated: Wed Aug 27 13:20:40 2025</span>
 </table><table style="width:80%">
-<td width=45%><img height=580px src=./ruler.png?1756275762><td width=55%><img height=220px src=./decays.png?1756275762>
-<font size=-3><iframe type="text/html" height="350px" width="100%" frameborder="0" src="./rawnumbers.html?1756275762"></iframe></font>
+<td width=45%><img height=580px src=./ruler.png?1756293640><td width=55%><img height=220px src=./decays.png?1756293640>
+<font size=-3><iframe type="text/html" height="350px" width="100%" frameborder="0" src="./rawnumbers.html?1756293640"></iframe></font>
 </table>
 </body>
 </html>
